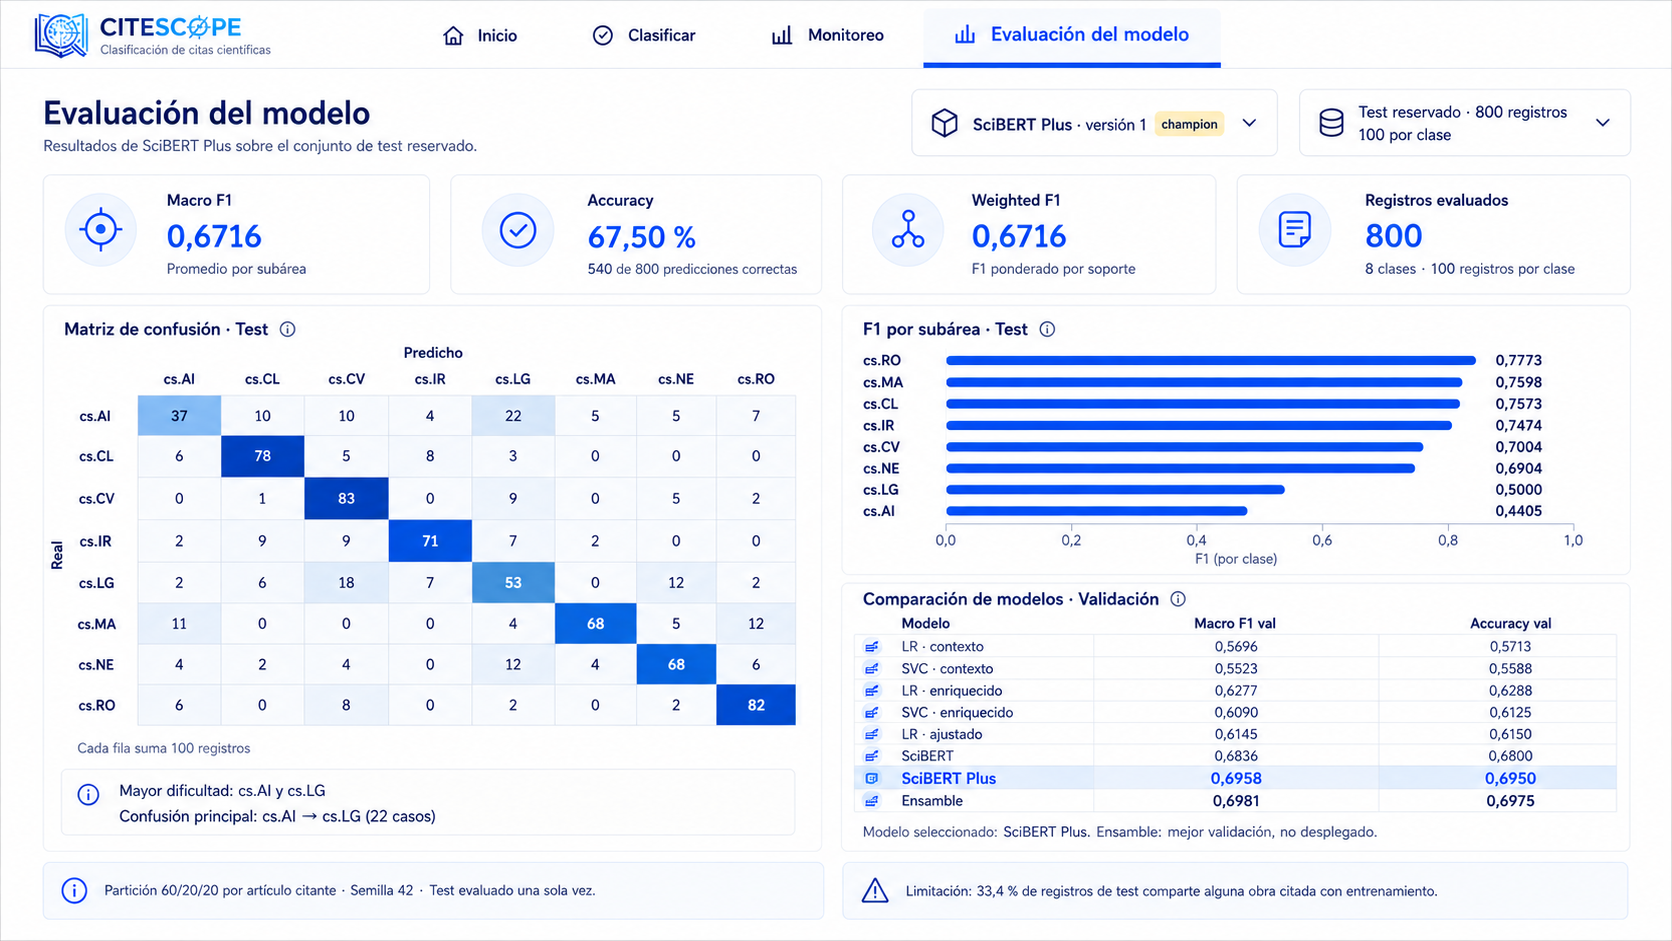
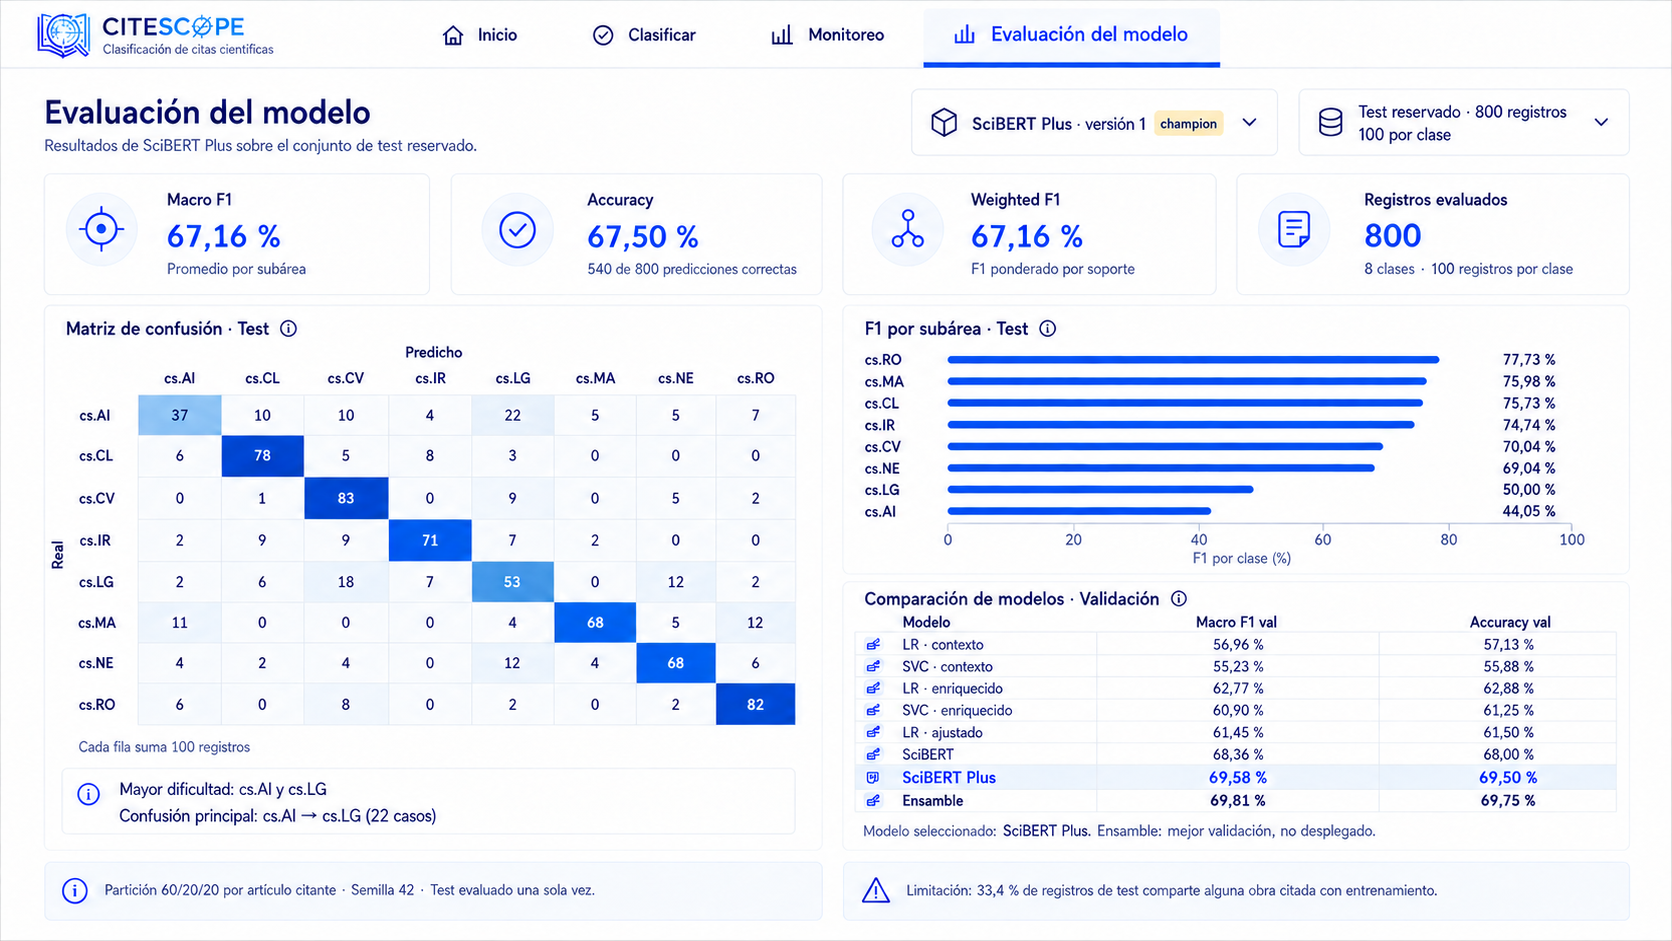
sebas toro: subir mis cambios a la entrega 2

diff --git a/Reportes/Entrega2/Entrega2_CiteScope.md b/Reportes/Entrega2/Entrega2_CiteScope.md
@@ -56,9 +56,10 @@ El 100% de los registros contiene contexto de cita; el 97,9% tiene un título ci
 
 ## 1.4 Cambios respecto a la Entrega 1
 
-La Entrega 1 delimitó el problema, seleccionó la fuente de datos, construyó el dataset y definió la maqueta inicial. Desde entonces se implementó una partición reproducible sin cruce de artículos citantes, se entrenaron modelos clásicos y basados en SciBERT, se registraron experimentos en MLflow y se realizó una evaluación final sobre el conjunto de test reservado. También se desarrolló un prototipo navegable del tablero, cuya integración con la API y el modelo se encuentra en progreso.
+La Entrega 1 delimitó el problema, seleccionó la fuente de datos, construyó el dataset y definió la maqueta inicial. Para esta segunda entrega se implementó una partición reproducible sin cruce de artículos citantes, se entrenaron y compararon modelos clásicos y basados en SciBERT, se registraron los experimentos en MLflow y se realizó una única evaluación final sobre el conjunto de test reservado. Además, se seleccionó y versionó SciBERT Plus como modelo `champion`, y se actualizaron los mockups con sus resultados reales.
 
-<!-- PASO 2: completar y revisar la sección de modelos con resultados reales. -->
+También se construyó un frontend navegable que materializa la propuesta visual de la Entrega 1. El prototipo incluye las vistas de inicio, clasificación, monitoreo, detalle de una predicción y evaluación del modelo. Actualmente consume archivos JSON locales: la evaluación presenta las métricas reales de esta entrega, mientras que la clasificación y el monitoreo usan datos demostrativos. La integración con la API de inferencia y el modelo registrado queda como el siguiente paso para convertirlo en una aplicación completamente funcional. Este avance del frontend se presenta en la **Figura 6**, donde se observa la vista de evaluación implementada con los resultados reales del modelo.
+
 
 # 2. Modelos desarrollados y evaluación
 
@@ -122,8 +123,6 @@ El desempeño más alto corresponde a `cs.RO`, seguido de `cs.MA` y `cs.CL`. La 
   <figcaption><strong>Figura 5.</strong> Matriz de confusión de SciBERT Plus sobre 800 observaciones de test. Cada clase contiene 100 ejemplos.</figcaption>
 </figure>
 
-<!-- PASO 3: incorporar capturas verificables de MLflow y EC2. -->
-
 # 3. Experimentos y trazabilidad con MLflow
 
 ## 3.1 Configuración y corridas registradas
@@ -167,7 +166,7 @@ Las evidencias visuales deben mostrar la correspondencia entre la infraestructur
   <figcaption><strong>Figura 4.</strong> Artefactos de test almacenados en MLflow: reporte por clase, matriz de confusión, predicciones con probabilidades y resumen reproducible de la evaluación.</figcaption>
 </figure>
 
-<!-- PASO 4: redactar conclusiones a partir de las métricas finales. -->
+
 
 # 4. Observaciones y conclusiones sobre los modelos
 
@@ -181,21 +180,51 @@ El análisis por clase revela que el desempeño no es uniforme. `cs.RO`, `cs.MA`
 
 En conclusión, **SciBERT Plus versión 1** se selecciona como modelo del prototipo por ser la alternativa individual con mejor validación, contar con una evaluación de test aislada y disponer de un artefacto reproducible en MLflow bajo el alias `champion`. Antes de considerar un uso más amplio se requiere estudiar calibración de probabilidades, ampliar y actualizar los datos, revisar la taxonomía de categorías cercanas, cuantificar el costo de inferencia y evaluar el efecto del solapamiento residual de obras citadas entre particiones.
 
-<!-- PASO 5: actualizar después de integrar frontend y API. -->
-
 # 5. Tablero desarrollado
 
 ## 5.1 Funcionalidades y relación con la pregunta de negocio
 
+Se desarrolló un prototipo web navegable de **CiteScope** para llevar el resultado del modelo a una interfaz comprensible para el usuario. El tablero organiza el flujo en cinco vistas:
+
+| Vista | Funcionalidad disponible | Relación con el objetivo del proyecto |
+|---|---|---|
+| Inicio (`/`) | Presenta el propósito de CiteScope y permite acceder a las funciones principales. | Explica el problema de clasificación de citas científicas. |
+| Clasificar (`/clasificar`) | Recibe el contexto de la cita, el título y el resumen del artículo citado; muestra la categoría, la confianza y las probabilidades por clase. | Representa el flujo principal de inferencia requerido por la pregunta de negocio. |
+| Monitoreo (`/monitoreo`) | Presenta indicadores, distribución de categorías, volumen e historial de solicitudes con filtros. | Permite observar el uso y el comportamiento operativo esperado del servicio. |
+| Detalle (`/monitoreo/[predictionId]`) | Muestra la trazabilidad de una predicción individual. | Facilita la revisión de la respuesta producida para una solicitud concreta. |
+| Evaluación (`/evaluacion`) | Presenta accuracy, Macro F1, Weighted F1, desempeño por clase, matriz de confusión y comparación de modelos. | Comunica las fortalezas, limitaciones y errores del modelo seleccionado. |
+
+La vista de evaluación fue actualizada frente al mockup inicial para mostrar porcentajes consistentes y los resultados reales de SciBERT Plus sobre el test reservado. La matriz conserva valores absolutos porque representan cantidades de observaciones y permiten revisar directamente los aciertos y las confusiones entre clases.
+
 ## 5.2 Integración con el modelo
+
+El frontend fue desarrollado con **Next.js 16**, **React 19** y **TypeScript**. La interfaz utiliza **Tailwind CSS 4**, estilos mediante **CSS Modules**, componentes de iconografía de **Lucide React** y componentes gráficos preparados con **Recharts**. El diseño es adaptable a dispositivos móviles y separa la presentación de la fuente de datos mediante una capa ubicada en `src/lib/mock-data.ts`.
+
+En el estado actual, las pantallas consumen archivos JSON locales almacenados en `frontend/data/`. Estos archivos funcionan como contrato temporal y reproducen la estructura que deberá entregar la API. Por esta razón, el prototipo permite validar navegación, contenido y experiencia de usuario, pero todavía no ejecuta inferencias reales ni consulta MLflow en tiempo real.
+
+La siguiente etapa consiste en reemplazar la capa de datos simulados por un cliente HTTP conectado a la API del proyecto. Esta API deberá cargar el modelo `models:/CiteScope-SciBERT-Plus@champion`, recibir los tres campos de entrada, ejecutar la inferencia y devolver la categoría, confianza y probabilidades. También deberá exponer el historial, el resumen de monitoreo y la evaluación para que todas las vistas sean funcionales con información persistida y actualizada.
 
 ## 5.3 Evidencias del tablero
 
-<!-- PASO 6: consolidar enlaces, commits y evidencia individual. -->
+Para mostrar el avance de manera verificable se combinan tres evidencias complementarias: el mockup actualizado, la implementación navegable y el código que define su contrato de datos.
+
+| Evidencia | Estado | Enlace |
+|---|---|---|
+| Mockups de las cinco vistas | Completado | [Carpeta `mockups`](https://github.com/germarodr/MAIA4401_MicroProyecto/tree/dev/mockups) |
+| Frontend navegable | Completado con datos locales | [Carpeta `frontend`](https://github.com/germarodr/MAIA4401_MicroProyecto/tree/dev/frontend) |
+| Vista de evaluación con resultados reales | Completado | [`frontend/src/app/evaluacion`](https://github.com/germarodr/MAIA4401_MicroProyecto/tree/dev/frontend/src/app/evaluacion) |
+| Contrato temporal de respuestas JSON | Completado | [`frontend/data`](https://github.com/germarodr/MAIA4401_MicroProyecto/tree/dev/frontend/data) |
+| Conexión con la API y ejecución del modelo | Pendiente | Se integrará en la siguiente fase del proyecto. |
+
+<figure>
+  <img src="images/frontend-evaluacion.png" alt="Vista de evaluación implementada en el frontend navegable de CiteScope">
+  <figcaption><strong>Figura 6.</strong> Vista de evaluación implementada y ejecutada localmente. Presenta las métricas reales de SciBERT Plus, la matriz de confusión, el F1 por subárea y la comparación de modelos.</figcaption>
+</figure>
+
 
 # 6. Repositorio, fuentes y soportes
 
-El código, los notebooks y las evidencias del proyecto se encuentran en el repositorio [MAIA4401_MicroProyecto](https://github.com/germarodr/MAIA4401_MicroProyecto), en la rama principal `main`, después de integrar los aportes desarrollados en las ramas de trabajo. La siguiente tabla relaciona los principales elementos que respaldan los resultados presentados.
+El código, los notebooks y las evidencias del proyecto se encuentran en el repositorio [MAIA4401_MicroProyecto](https://github.com/germarodr/MAIA4401_MicroProyecto). El avance descrito en esta entrega se encuentra consolidado en la rama [`dev`](https://github.com/germarodr/MAIA4401_MicroProyecto/tree/dev), desde la cual se integrarán posteriormente los cambios a la rama principal. La siguiente tabla relaciona los principales elementos que respaldan los resultados presentados.
 
 | Elemento | Ruta o evidencia |
 |---|---|
@@ -210,18 +239,31 @@ El código, los notebooks y las evidencias del proyecto se encuentran en el repo
 | Resultados reproducibles | `models/artifacts/*.csv` |
 | Modelo registrado | `CiteScope-SciBERT-Plus`, versión 1, alias `champion` |
 | Mockups | `mockups/` |
+| Frontend navegable | `frontend/` |
+| Datos temporales del frontend | `frontend/data/` |
+| Evidencia visual del frontend | `Reportes/Entrega2/images/frontend-evaluacion.png` |
 | Evidencias de MLflow | `Reportes/Entrega2/images/` |
 | Reporte | `Reportes/Entrega2/Entrega2_CiteScope.md` |
 
-Git conserva la trazabilidad de los aportes individuales mediante commits; DVC identifica la versión del dataset y MLflow centraliza parámetros, métricas, artefactos y versiones del modelo.
+Los principales cambios relacionados con el diseño y el desarrollo del frontend se pueden verificar directamente en el historial del mismo repositorio:
+
+| Cambio verificable | Commit |
+|---|---|
+| Creación de los mockups iniciales y aporte al análisis exploratorio | [`1c5c9b4`](https://github.com/germarodr/MAIA4401_MicroProyecto/commit/1c5c9b4a07bf561cd6988b58b01bb1f7c616f4bc) |
+| Primera versión del frontend y definición de datos simulados | [`452a9d8`](https://github.com/germarodr/MAIA4401_MicroProyecto/commit/452a9d851a90a46dfdd260ad7b9cb350bc9b168d) |
+| Actualización del mockup de evaluación para la Entrega 2 | [`dd37455`](https://github.com/germarodr/MAIA4401_MicroProyecto/commit/dd37455f4dd7ac18efd09e8e7df8bffa255fc770) |
+| Actualización del frontend con las métricas reales de evaluación | [`b981a2e`](https://github.com/germarodr/MAIA4401_MicroProyecto/commit/b981a2e81d1a2354485116007dec6a37737805c3) |
+| Integración de la rama de frontend en `dev` | [`9fd2009`](https://github.com/germarodr/MAIA4401_MicroProyecto/commit/9fd2009a261d9205f790d6ab8c80599c91e78d6c) |
+| Sincronización final de cambios en `dev` y actualización del reporte | [`66d0316`](https://github.com/germarodr/MAIA4401_MicroProyecto/commit/66d0316b4685281b33cfa7f6067b4c26828be8c4) |
+
+De esta manera, Git conserva la trazabilidad de los aportes individuales, DVC identifica la versión del dataset y MLflow centraliza parámetros, métricas, artefactos y versiones del modelo.
 
 # 7. Reporte de trabajo en equipo
 
 | Integrante | Actividades realizadas | Evidencias |
 |---|---|---|
 | Jose Arteaga | Configuró la infraestructura en AWS EC2, el acceso SSH, el servicio de MLflow y su almacenamiento remoto. Implementó el registro y versionamiento de experimentos y del modelo SciBERT Plus, gestionó los alias `candidate` y `champion`, y ejecutó la evaluación final sobre test. También documentó las métricas, artefactos y evidencias de la entrega. | Notebooks `07_scibert_plus.ipynb` y `08_evaluacion_test.ipynb`; modelo `CiteScope-SciBERT-Plus` v1; capturas de AWS/MLflow; commits `74eb914`, `442777b`, `d93ea90`, `afb5ffa`, `b108dbc` y `893d668`. |
-
-<!-- Agregar las contribuciones verificables de los demás integrantes. -->
+| Sebastian Toro | Diseñe los mockups iniciales y actualizó la vista de evaluación con los resultados reales de la Entrega 2. Desarrolló la primera versión navegable del frontend con Next.js, React y TypeScript, incorporó datos simulados para representar el futuro contrato con la API y ajustó la pantalla de evaluación para mostrar las métricas, la matriz de confusión y la comparación de modelos. También integró el trabajo de frontend en la rama `dev` y aportó a la actualización del reporte. | Carpetas `mockups/`, `frontend/` y `db/`; captura `Reportes/Entrega2/images/frontend-evaluacion.png`; commits [`1c5c9b4`](https://github.com/germarodr/MAIA4401_MicroProyecto/commit/1c5c9b4a07bf561cd6988b58b01bb1f7c616f4bc), [`452a9d8`](https://github.com/germarodr/MAIA4401_MicroProyecto/commit/452a9d851a90a46dfdd260ad7b9cb350bc9b168d), [`dd37455`](https://github.com/germarodr/MAIA4401_MicroProyecto/commit/dd37455f4dd7ac18efd09e8e7df8bffa255fc770), [`b981a2e`](https://github.com/germarodr/MAIA4401_MicroProyecto/commit/b981a2e81d1a2354485116007dec6a37737805c3), [`9fd2009`](https://github.com/germarodr/MAIA4401_MicroProyecto/commit/9fd2009a261d9205f790d6ab8c80599c91e78d6c) y [`66d0316`](https://github.com/germarodr/MAIA4401_MicroProyecto/commit/66d0316b4685281b33cfa7f6067b4c26828be8c4). |
 
 # 8. Conclusiones finales
 

diff --git a/mockups/05-evaluacion-modelo_v2.prompt.md b/mockups/05-evaluacion-modelo_v2.prompt.md
@@ -1,0 +1,50 @@
+# Mockup de evaluación V2 — actualización a porcentajes
+
+Herramienta: editor de imágenes integrado (`image_gen`).
+Imagen actualizada: `05-evaluacion-modelo_v2.png`.
+Fuente: `../frontend/data/evaluation.json` y resultados de la Entrega 2.
+Se conserva `05-evaluacion-modelo.png` como versión inicial.
+
+## Prompt
+
+```text
+Use case: text-localization / precise UI mockup edit.
+Input image 1 is the EDIT TARGET: CiteScope evaluation dashboard V2.
+Update this existing raster image to match the frontend's percentage formatting. Preserve its high fidelity clean white/navy/electric-blue desktop UI, logo, all Spanish navigation labels, model SciBERT Plus version 1 champion, dataset and all panels, 8x8 confusion matrix numbers and class labels, record count 800, protocol and footnotes. Keep framing landscape and no clipping. Render extremely crisp readable text.
+
+Change only performance metric formatting and chart scale/bar proportions as follows:
+1. Top Macro F1 card: replace 0,6716 with "67,16 %".
+2. Top Accuracy card remains "67,50 %".
+3. Top Weighted F1 card: replace 0,6716 with "67,16 %".
+4. Records remains "800" (NOT percentage), matrix remains counts (NOT percentages).
+
+5. F1 por subárea · Test: values to the right of each bar, in existing descending row order:
+cs.RO "77,73 %"
+cs.MA "75,98 %"
+cs.CL "75,73 %"
+cs.IR "74,74 %"
+cs.CV "70,04 %"
+cs.NE "69,04 %"
+cs.LG "50,00 %"
+cs.AI "44,05 %"
+Use a shared horizontal axis from 0 to 100 with ticks 0,20,40,60,80,100 evenly spaced. Caption "F1 por clase (%)". All bars must start at zero and end at exactly their value on this scale: cs.LG at 50 midway between 40 and 60, cs.RO at 77.73 just before 80. Do not preserve the original inaccurate bar lengths. Values are percentages of full plotted width, not relative to maximum observed F1.
+
+6. Validation comparison table, keep all 8 rows, 3 columns headers Modelo | Macro F1 val | Accuracy val, replace numbers with:
+LR · contexto | 56,96 % | 57,13 %
+SVC · contexto | 55,23 % | 55,88 %
+LR · enriquecido | 62,77 % | 62,88 %
+SVC · enriquecido | 60,90 % | 61,25 %
+LR · ajustado | 61,45 % | 61,50 %
+SciBERT | 68,36 % | 68,00 %
+SciBERT Plus | 69,58 % | 69,50 %
+Ensamble | 69,81 % | 69,75 %
+Preserve selected SciBERT Plus blue highlight and footnote that ensemble has best validation but isn't deployed.
+All percentages must use comma decimal separator and exactly 2 decimal places, followed by percent sign. Keep matrix unchanged with diagonal 37,78,83,71,53,68,68,82 and every row summing to 100. Leave 33,4 % overlap footnote and 60/20/20 split intact. No extra numbers, no redesign, no spurious watermarks.
+```
+
+## Ajuste de barras
+
+```text
+Precise edit of supplied CiteScope dashboard PNG. KEEP ALL text, numeric labels, matrix, cards, layout, colors and framing EXACTLY AS IS. Change ONLY the right-hand endpoints of the eight horizontal blue bars in upper-right F1 panel; leave their left endpoints fixed. Current bars are too long compared to axis. At current image coordinates the axis spans x=947 (0) to x=1573 (100). Set exact bar right endpoints in row order: cs.RO x=1434 (77.73%), cs.MA x=1423 (75.98%), cs.CL x=1421 (75.73%), cs.IR x=1415 (74.74%), cs.CV x=1385 (70.04%), cs.NE x=1379 (69.04%), cs.LG x=1260 (50%, EXACTLY halfway between 40 and 60 ticks), cs.AI x=1223 (44.05%). All start x=947. Preserve labels at right and tick labels 0 20 40 60 80 100. If your canvas resolution changes, scale these coordinates proportionally. Especially shorten top bar so it ends just LEFT of the 80 tick, never right of 80. Shorten the cs.LG bar to exact middle of 40 and 60 ticks. Do not edit anything else.
+```
+

diff --git a/mockups/README.md b/mockups/README.md
@@ -9,12 +9,23 @@ Science a partir de contextos de citas académicas.
 2. `02-clasificar.png`: formulario de entrada y probabilidades de clasificación.
 3. `03-monitoreo.png`: métricas operativas, filtros e historial de peticiones.
 4. `04-detalle-peticion.png`: detalle de una inferencia y validación del resultado.
-5. `05-evaluacion-modelo.png`: métricas sobre datos etiquetados, matriz de
-   confusión y F1 por subárea.
+5. **Vigente: `05-evaluacion-modelo_v2.png`**: evaluación de SciBERT Plus versión 1,
+   alias `champion`, con los resultados de la Entrega 2. Las métricas de las
+   tarjetas, barras y comparación de validación se expresan en porcentajes.
+   La matriz conserva cantidades y el test contiene 800 registros.
+
+![Evaluación del modelo V2 — métricas en porcentajes](05-evaluacion-modelo_v2.png)
+
+`05-evaluacion-modelo.png` se conserva como versión inicial de la Entrega 1.
 
 ## Nota
 
-Los valores mostrados son ilustrativos para la maqueta. En la implementación
-deben provenir de la API, el registro de inferencias y la evaluación real del
-modelo.
+La V2 de evaluación refleja los resultados documentados en la Entrega 2:
+Macro F1 67,16 %, accuracy 67,50 % y Weighted F1 67,16 %. La comparación de
+modelos corresponde a validación y está separada de las métricas de test.
+Es una maqueta visual editada con el generador de imágenes integrado, no una
+captura de la aplicación ejecutándose. El prompt de actualización está en
+`05-evaluacion-modelo_v2.prompt.md`.
 
+Las otras maquetas mantienen valores ilustrativos. En el frontend, la evaluación
+carga los resultados desde un JSON local; la consulta a MLflow/API sigue pendiente.
